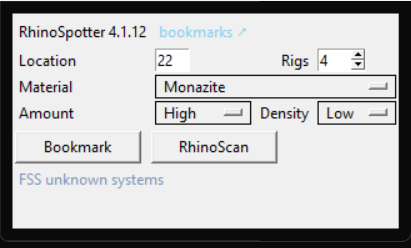
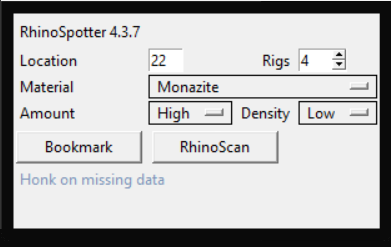
Landing note says what it did and clears itself; new panel screenshot. 4.3.7
'loc 9 from a bookmark 253 m away' stayed on the status line for the rest of the session and did not say that Location had been filled. _note() writes 'Location set to 9 - your bookmark 253 m away is there' and clears it after NOTE_MS = 8 s unless something else was written meanwhile; errors and update messages keep _set_status. docs/plugin.png regenerated with make_docs_images (4.3.7, no bookmarks link, hint line); a strip of the minimap's hotkey footer that leaked into the bottom margin was painted out. The other regenerated images were left as they were.

Changed region(s): [[0.0, 0.0567, 0.9821, 0.9352], [0.0, 0.9636, 0.9821, 0.9919]]

diff --git a/rs_ui/main.py b/rs_ui/main.py
@@ -444,7 +444,7 @@ def _fill_location(entry, system):
     if known is not None:
         index, metres = known
         _loc.set(str(index))
-        _set_status(f"loc {index} from a bookmark {metres:.0f} m away")
+        _note(f"Location set to {index} - your bookmark {metres:.0f} m away is there")
         return
     if entry.get("event") == "Touchdown":
         index = spotmark.nearest_index(entry)
@@ -623,6 +623,20 @@ def _refresh_hint():
 def _set_status(text):
     if _status:
         _status.config(text=text)
+
+
+# How long a passing note stays on the status line. Errors and updates stay
+# until something replaces them; a note only says what was just filled in.
+NOTE_MS = 8000
+
+
+def _note(text):
+    """The status line for NOTE_MS, then empty again - unless something else
+    has been written there meanwhile."""
+    _set_status(text)
+    if _frame:
+        _frame.after(NOTE_MS, lambda: _status and _status.cget("text") == text
+                     and _set_status(""))
 
 
 # What the button says when it is itself, and what it says for a moment after

diff --git a/rs_core/update.py b/rs_core/update.py
@@ -27,7 +27,7 @@ try:
 except ImportError:         # a bare interpreter without it
     requests = None
 
-VERSION = "4.3.6"
+VERSION = "4.3.7"
 
 # For testing the update path without publishing a throwaway release: set
 # RHINOSPOTTER_VERSION to something older and the running plugin will see the

diff --git a/CHANGELOG.md b/CHANGELOG.md
@@ -1,5 +1,14 @@
 # Changelog
 
+## 4.3.7
+
+**Changed**
+
+- The note after landing says what happened - "Location set to 9 - your
+  bookmark 253 m away is there" - and clears itself after 8 seconds instead of
+  staying on the panel. Errors and update messages still stay.
+- README panel screenshot shows the current panel.
+
 ## 4.3.6
 
 **Added**
